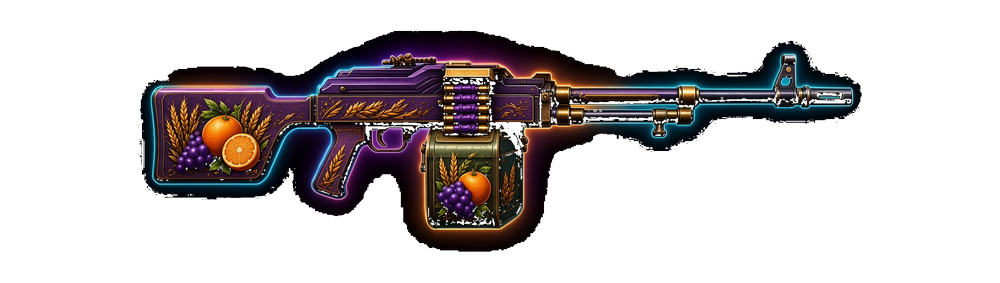
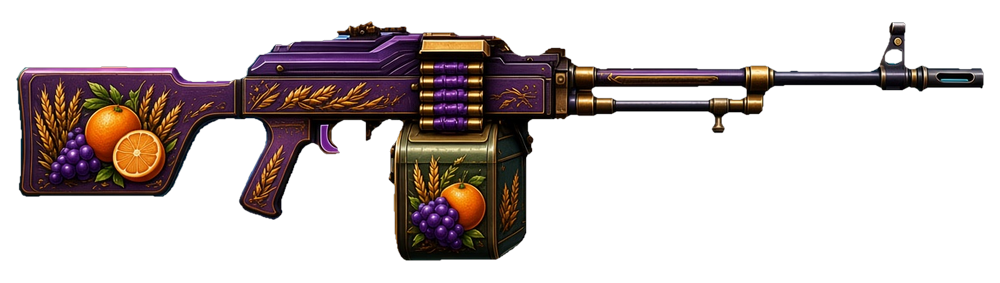
PKM clean cutout no glow fringe

diff --git a/src/app/profile-v2.css b/src/app/profile-v2.css
@@ -1426,15 +1426,11 @@ body.has-profile-bg .shell:has(.profile-page) {
 .profile-patch-tile[data-patch-id="creator-event-pkm-harvest"]
   .profile-patch-tile-art {
   width: 96%;
-  /* канон: ствол влево */
+  /* канон: ствол влево; без свечения — чистый вырез */
   transform: scaleX(-1);
-  /* мягкий ореол поверх glow в PNG */
-  filter:
-    drop-shadow(0 0 4px rgba(120, 200, 255, 0.45))
-    drop-shadow(0 0 8px rgba(180, 100, 255, 0.35))
-    drop-shadow(0 0 12px rgba(255, 140, 50, 0.22));
+  filter: none;
   animation: none;
-  transition: filter 0.15s ease, transform 0.15s ease;
+  transition: transform 0.15s ease;
 }
 .profile-patch-tile[data-patch-id="creator-event-pkm-harvest"]:hover
   .profile-patch-tile-art,
@@ -1444,11 +1440,7 @@ body.has-profile-bg .shell:has(.profile-page) {
   .profile-patch-tile-art {
   animation: none;
   transform: scaleX(-1) scale(1.06);
-  filter:
-    drop-shadow(0 0 5px rgba(140, 210, 255, 0.55))
-    drop-shadow(0 0 10px rgba(190, 120, 255, 0.42))
-    drop-shadow(0 0 16px rgba(255, 150, 55, 0.3))
-    brightness(1.03);
+  filter: none;
 }
 
 .profile-patch-tile[data-patch-id="creator-event-scar-lemon"]

diff --git a/src/app/globals.css b/src/app/globals.css
@@ -1603,11 +1603,8 @@ body:has(.tm-sapper-page) {
   .nick-patch-mark-art {
   transform: scaleX(-1);
   opacity: 1;
-  /* мягкое свечение как на референсе */
-  filter:
-    drop-shadow(0 0 3px rgba(120, 200, 255, 0.5))
-    drop-shadow(0 0 6px rgba(180, 100, 255, 0.38))
-    drop-shadow(0 0 10px rgba(255, 140, 50, 0.22)) !important;
+  /* без свечения — чистый вырез */
+  filter: none !important;
   animation: none !important;
 }
 .nick-patch-mark[data-patch-id="creator-event-pkm-harvest"]:hover
@@ -1618,11 +1615,7 @@ body:has(.tm-sapper-page) {
   .nick-patch-mark-art {
   animation: none !important;
   transform: scaleX(-1) scale(1.08);
-  filter:
-    drop-shadow(0 0 4px rgba(140, 210, 255, 0.6))
-    drop-shadow(0 0 8px rgba(190, 120, 255, 0.45))
-    drop-shadow(0 0 12px rgba(255, 150, 55, 0.3))
-    brightness(1.04) !important;
+  filter: none !important;
   opacity: 1;
 }
 

diff --git a/src/lib/profilePatches.ts b/src/lib/profilePatches.ts
@@ -110,7 +110,7 @@ export function profilePatchUrl(
     id === "hw2-knife-hook" || id === "hw2-ak-pumpkin"
       ? "?v=blood1"
       : id === "creator-event-pkm-harvest"
-        ? "?v=exact1"
+        ? "?v=clean1"
         : "";
   return `/bp-assets/${opt.file}${bust}`;
 }
